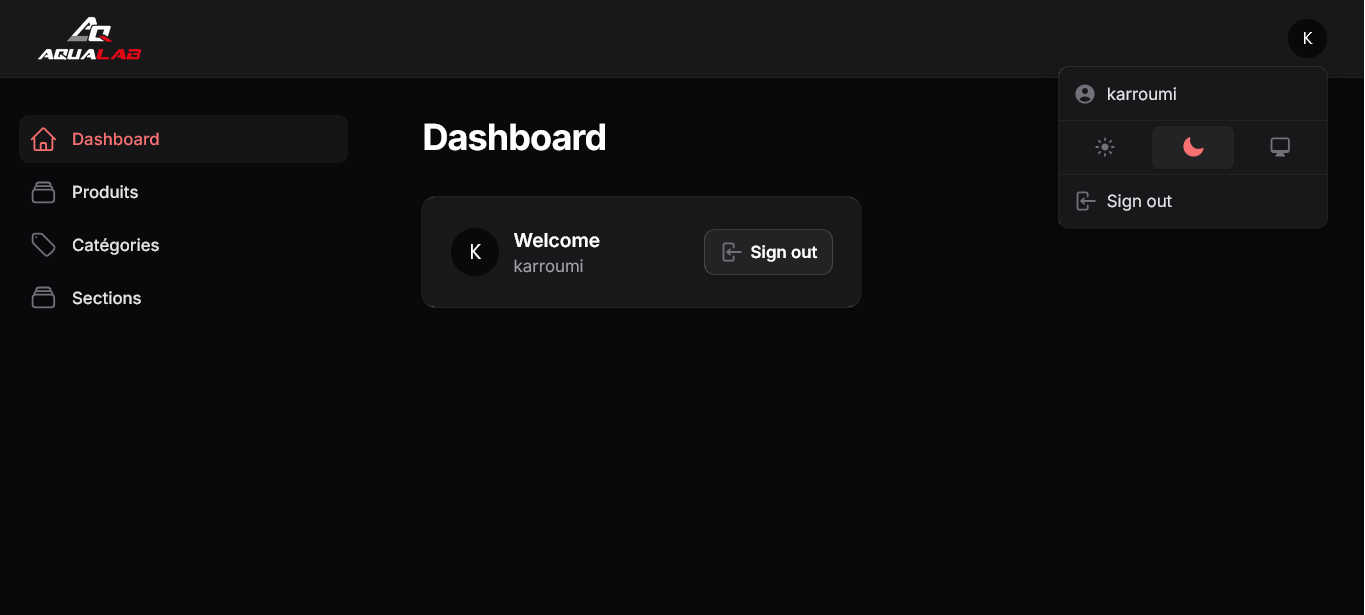
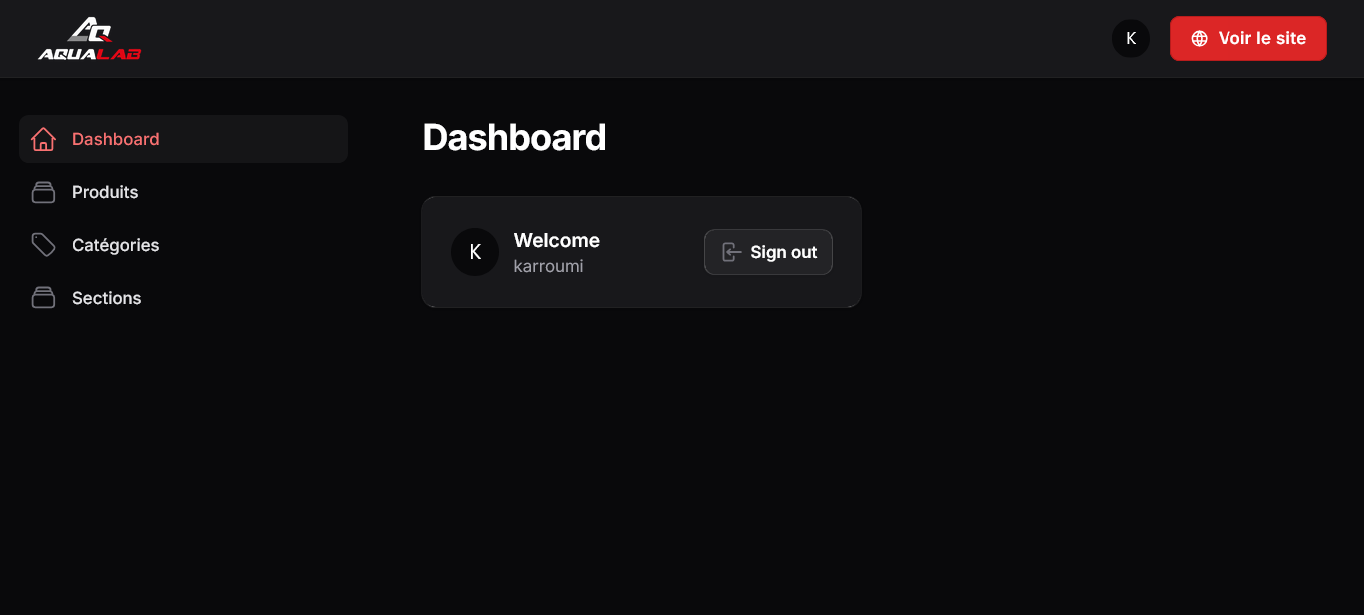
add images from back-office aqualab project

Changed region(s): [[0.8308, 0.0, 0.9846, 0.1236], [0.7692, 0.1236, 0.9538, 0.278], [0.7692, 0.3089, 0.8615, 0.3398]]

diff --git a/index.html b/index.html
@@ -156,7 +156,8 @@
                            <i class="fa-solid fa-arrow-up-right-from-square"></i>
                   </a>
                   <a class="backoffice-btn" title="Back Office"
-                     data-images="/image/back-office-dashboard.png,
+                     data-images="/image/back-office-Sign-in.png,
+                                  /image/back-office-dashboard.png,
                                   /image/back-office-Product-list.png,
                                   /image/back-office-add-product.png,
                                   /image/back-office-Catégories.png,